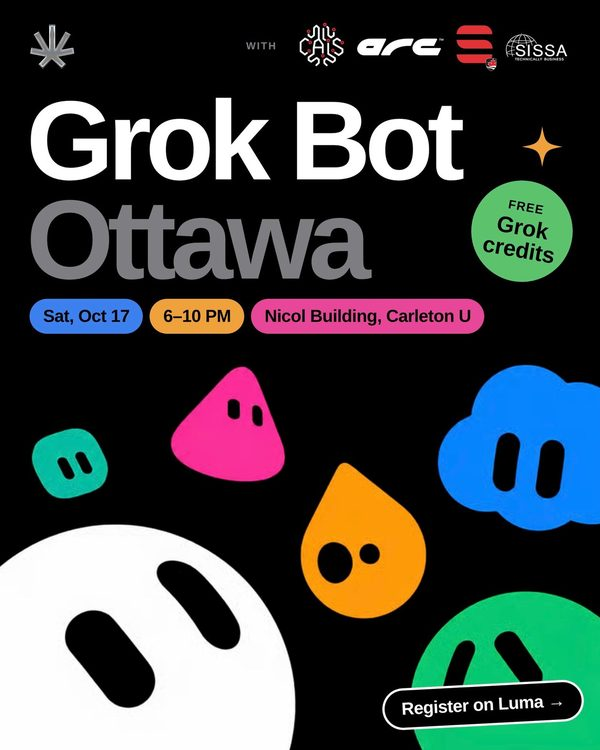
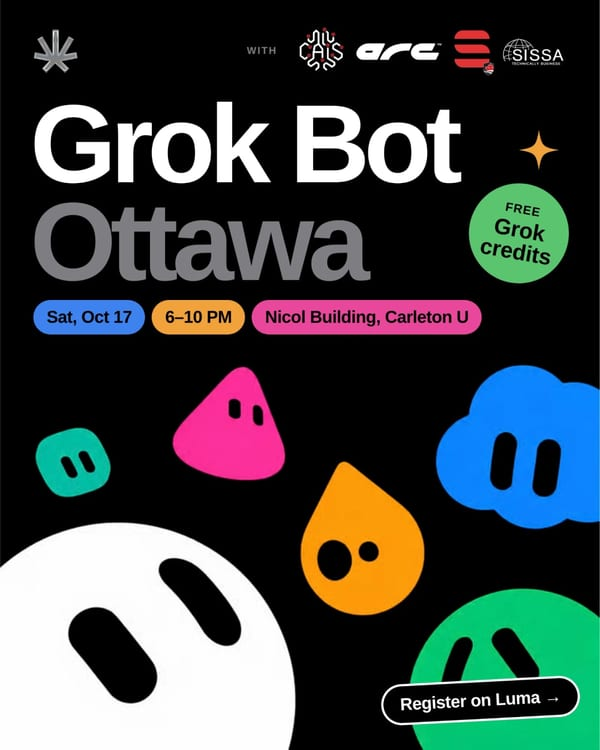
feat(events): the Grok Bot Ottawa poster; ARC and SISSA among the partners
The Grok Bot Meetup – Ottawa event uses the poster from Instagram, at the
site's 1236px size with its 600px card copy. The poster's header names
the co-hosts, so ARC and SISSA join the partners with their marks cropped
from it, and ColorStack's mark is the one it uses on the poster. The
partners grid is four across on wide screens, which fits eight.

diff --git a/src/components/Partners.tsx b/src/components/Partners.tsx
@@ -39,7 +39,7 @@ export function Partners() {
         title="Who we build with"
         lede="Clubs, hackathons and programs the society has run events alongside."
       />
-      <ul className="grid grid-cols-2 gap-4 sm:grid-cols-3 lg:grid-cols-6">
+      <ul className="grid grid-cols-2 gap-4 sm:grid-cols-3 lg:grid-cols-4">
         {partners.map((partner) => {
           const body = (
             <>
